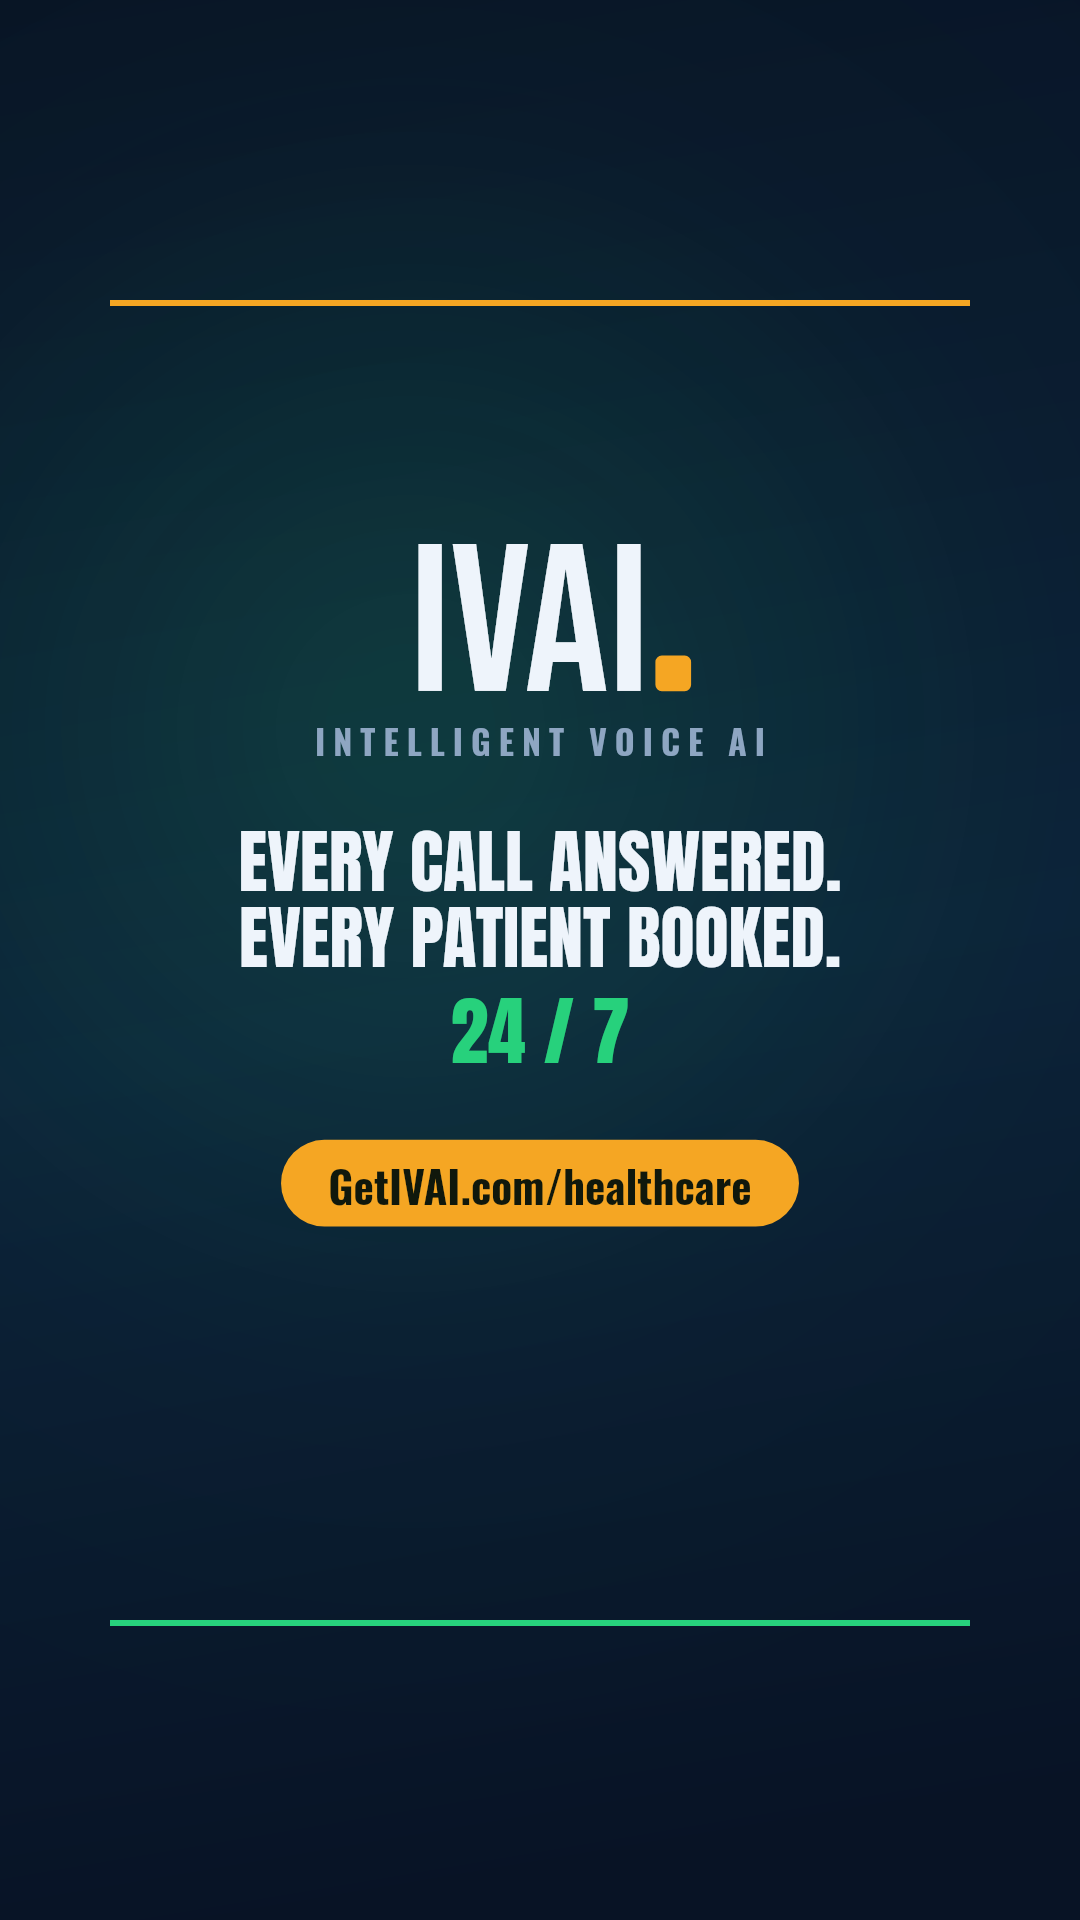
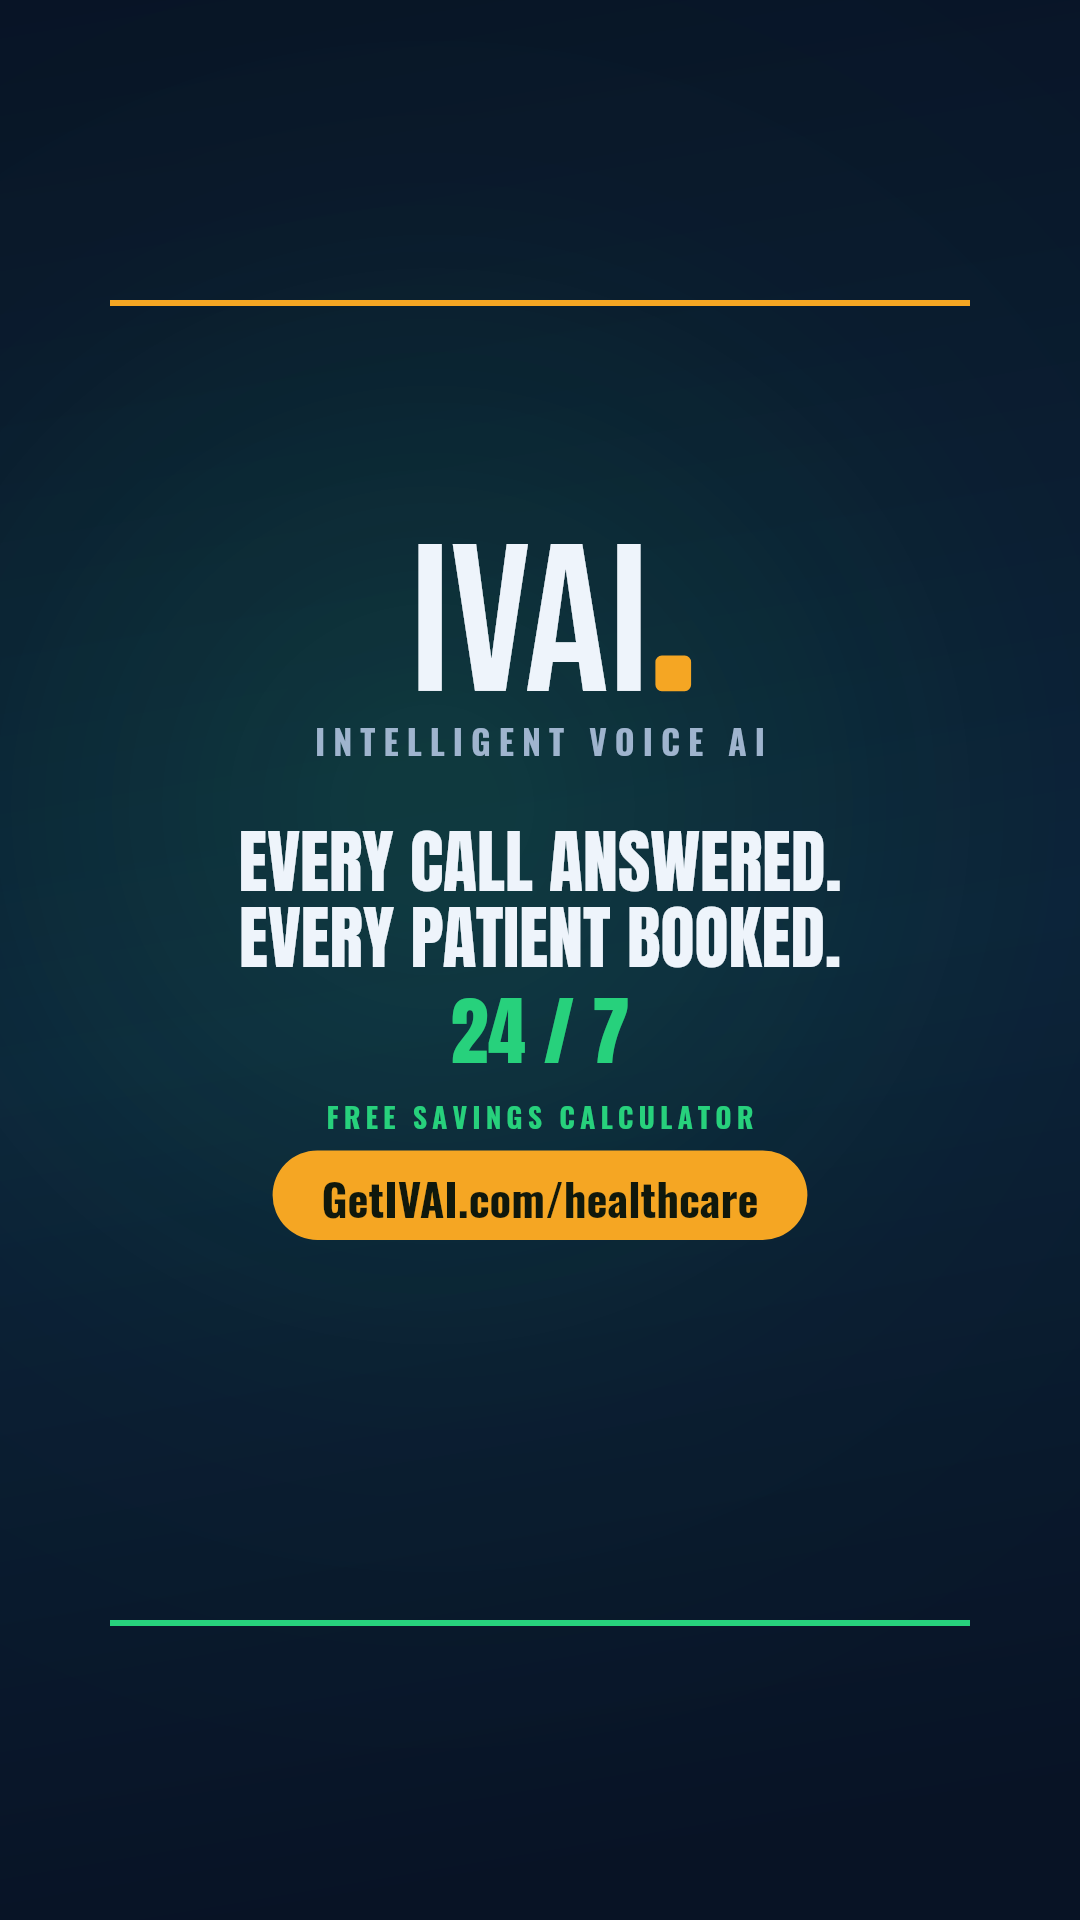
Add high-five close + solution feature list
Insert a celebratory high-five beat over the hallway shot (drawn hands +
impact burst, faces clear) and rework Scene 3 to a feature checklist —
Books into Athena/Kareo, Handles insurance, Routes complex cases — leading to
$41,800 recovered (first month). End-slate gains a Free Savings Calculator line.

https://claude.ai/code/session_01YAkeRZqzQuhdtqTU6LKJGd

Changed region(s): [[0.2444, 0.5625, 0.7639, 0.6562]]

diff --git a/assets/healthcare-45s/src/render.js b/assets/healthcare-45s/src/render.js
@@ -46,8 +46,7 @@ const OVERLAYS = [
   { id: 'lost150',   big: '150,000', label: 'WALK OUT THE DOOR / YEAR',    t0: 11.2, t1: 16.05, tone: 'bad',  count: 150000, pre: '$', post: '' },
   { id: 'unans',     big: '35',      label: 'OF PATIENT CALLS UNANSWERED', t0: 17.6, t1: 23.8,  tone: 'bad',  count: 35,     pre: '',  post: '%' },
   { id: 'lost135',   big: '135,000', label: 'IN LOST REVENUE / YEAR',      t0: 24.2, t1: 31.5,  tone: 'bad',  count: 135000, pre: '$', post: '' },
-  { id: 'books',     big: '',        label: 'BOOKS INTO ATHENA / KAREO',   t0: 33.2, t1: 37.0,  tone: 'good', count: 0,      pre: '',  post: '' },
-  { id: 'recovered', big: '41,800',  label: 'RECOVERED REVENUE',           t0: 37.2, t1: 39.9,  tone: 'good', count: 41800,  pre: '$', post: '' },
+  { id: 'recovered', big: '41,800',  label: 'RECOVERED · FIRST MONTH',     t0: 37.7, t1: 39.9,  tone: 'good', count: 41800,  pre: '$', post: '' },
 ];
 
 const clamp = (x, a = 0, b = 1) => Math.max(a, Math.min(b, x));
@@ -143,19 +142,41 @@ function leakGraph(ctx, t, t0, alpha) {
   if (prog > 0.02) { ctx.fillStyle = C.red; ctx.beginPath(); ctx.arc(gx + gw * prog, gy + gh * prog, 9, 0, 7); ctx.fill(); }
   ctx.restore();
 }
-function bookedToast(ctx, t) {
-  const items = [['9:00 AM', 'New patient'], ['10:30 AM', 'Follow-up'], ['1:15 PM', 'New patient']];
-  for (let i = 0; i < items.length; i++) {
-    const st = 33.3 + i * 0.5, a = lifecycle(t, st, 39.8, 0.4, 0.5); if (a <= 0) continue;
-    const wd = 540, x = W / 2 - wd / 2, y = 770 + i * 96;
+function featureList(ctx, t) {
+  const feats = ['Books into Athena · Kareo', 'Handles insurance', 'Routes complex cases'];
+  for (let i = 0; i < feats.length; i++) {
+    const st = 33.4 + i * 0.55, a = lifecycle(t, st, 37.7, 0.4, 0.45); if (a <= 0) continue;
+    const wd = 610, x = W / 2 - wd / 2, y = 556 + i * 92;
     ctx.save(); ctx.globalAlpha = a;
-    ctx.fillStyle = hexA('#0c2742', 0.92); ctx.strokeStyle = hexA(C.green, 0.7); ctx.lineWidth = 2; rr(ctx, x, y, wd, 80, 16); ctx.fill(); ctx.stroke();
-    ctx.fillStyle = hexA(C.green, 0.16); ctx.beginPath(); ctx.arc(x + 46, y + 40, 24, 0, 7); ctx.fill();
-    ctx.strokeStyle = C.green; ctx.lineWidth = 5; ctx.lineCap = 'round'; ctx.beginPath(); ctx.moveTo(x + 35, y + 40); ctx.lineTo(x + 43, y + 50); ctx.lineTo(x + 58, y + 30); ctx.stroke();
-    ctx.textAlign = 'left'; ctx.fillStyle = C.white; ctx.font = `30px ${F.oswald}`; ctx.fillText(items[i][0] + '  ·  ' + items[i][1], x + 86, y + 50);
-    ctx.fillStyle = C.green; ctx.font = `22px ${F.inter}`; ctx.textAlign = 'right'; ctx.fillText('BOOKED', x + wd - 26, y + 49);
+    ctx.fillStyle = hexA('#0c2742', 0.9); ctx.strokeStyle = hexA(C.green, 0.65); ctx.lineWidth = 2; rr(ctx, x, y, wd, 76, 16); ctx.fill(); ctx.stroke();
+    ctx.fillStyle = hexA(C.green, 0.16); ctx.beginPath(); ctx.arc(x + 44, y + 38, 23, 0, 7); ctx.fill();
+    ctx.strokeStyle = C.green; ctx.lineWidth = 6; ctx.lineCap = 'round'; ctx.beginPath(); ctx.moveTo(x + 33, y + 38); ctx.lineTo(x + 41, y + 48); ctx.lineTo(x + 56, y + 28); ctx.stroke();
+    ctx.textAlign = 'left'; ctx.fillStyle = C.white; ctx.font = `34px ${F.oswald}`; ctx.fillText(feats[i], x + 84, y + 48);
     ctx.restore();
   }
+}
+function drawPalm(ctx, x, y, dir, s) {
+  ctx.save(); ctx.translate(x, y); ctx.scale(dir * s, s);
+  rr(ctx, -28, -36, 50, 74, 15); ctx.fill();
+  for (let i = 0; i < 4; i++) { rr(ctx, -26 + i * 13, -58, 10, 28, 5); ctx.fill(); }
+  rr(ctx, -42, -8, 20, 26, 10); ctx.fill();
+  ctx.restore();
+}
+function highFive(ctx, t) {
+  const a = lifecycle(t, 40.2, 42.6, 0.4, 0.3); if (a <= 0) return;
+  const cx = W / 2, cy = H * 0.525, hit = easeOut(clamp((t - 40.7) / 0.5));
+  ctx.save(); ctx.globalAlpha = a;
+  ctx.strokeStyle = hexA(C.green, 0.85); ctx.lineWidth = 5; ctx.lineCap = 'round';
+  const rays = 12, R0 = 56 * hit, R1 = 118 + 70 * hit;
+  for (let i = 0; i < rays; i++) { const ang = (i / rays) * Math.PI * 2 + 0.26; ctx.beginPath(); ctx.moveTo(cx + Math.cos(ang) * R0, cy + Math.sin(ang) * R0); ctx.lineTo(cx + Math.cos(ang) * R1, cy + Math.sin(ang) * R1); ctx.stroke(); }
+  if (hit > 0 && hit < 1) { ctx.fillStyle = hexA('#ffffff', (1 - hit) * 0.5); ctx.beginPath(); ctx.arc(cx, cy, 104 * hit, 0, 7); ctx.fill(); }
+  ctx.shadowColor = hexA(C.green, 0.6); ctx.shadowBlur = 18; ctx.fillStyle = '#ffffff';
+  drawPalm(ctx, cx - 22 - (1 - hit) * 80, cy, 1, 0.82);
+  drawPalm(ctx, cx + 22 + (1 - hit) * 80, cy, -1, 0.82);
+  ctx.shadowBlur = 0;
+  ctx.textAlign = 'center'; ctx.fillStyle = C.white; ctx.font = `76px ${F.anton}`; ctx.fillText('HIGH FIVE.', cx, H * 0.73);
+  ctx.fillStyle = C.green; ctx.font = `34px ${F.oswald}`; const s = 'EVERY CALL ANSWERED', lw = trackWidth(ctx, s, 4); track(ctx, s, cx - lw / 2, H * 0.73 + 52, 4);
+  ctx.restore();
 }
 
 // ---- end slate ----
@@ -176,18 +197,17 @@ function endSlate(ctx, t, sT) {
   ctx.font = `70px ${F.anton}`; ctx.fillStyle = C.white; ctx.fillText('EVERY CALL ANSWERED.', W / 2, wy + 200); ctx.fillText('EVERY PATIENT BOOKED.', W / 2, wy + 276);
   ctx.fillStyle = C.green; ctx.font = `76px ${F.anton}`; ctx.fillText('24 / 7', W / 2, wy + 372);
   const pa = easeOut(clamp((t - sT - 0.7) / 0.6)); ctx.globalAlpha = pa;
+  ctx.fillStyle = C.green; ctx.font = `28px ${F.oswald}`; { const fc = 'FREE SAVINGS CALCULATOR', fw = trackWidth(ctx, fc, 5); track(ctx, fc, W / 2 - fw / 2, wy + 438, 5); }
   ctx.font = `44px ${F.oswald}`; const cta = 'GetIVAI.com/healthcare', cw = ctx.measureText(cta).width + 96, pulse = 1 + 0.02 * Math.sin((t - sT) * 6);
-  ctx.translate(W / 2, wy + 492); ctx.scale(pulse, pulse); ctx.fillStyle = C.amber; rr(ctx, -cw / 2, -44, cw, 88, 44); ctx.fill();
-  ctx.fillStyle = '#10180c'; ctx.textBaseline = 'middle'; ctx.fillText(cta, 0, 3);
+  ctx.translate(W / 2, wy + 504); ctx.scale(pulse, pulse); ctx.fillStyle = C.amber; rr(ctx, -cw / 2, -44, cw, 88, 44); ctx.fill();
+  ctx.fillStyle = '#10180c'; ctx.textBaseline = 'middle'; ctx.textAlign = 'center'; ctx.fillText(cta, 0, 3);
   ctx.restore();
 }
 function drawCTA(ctx, t) {
-  const sT = 41.3, eIn = easeOut(clamp((t - sT) / 0.8));
+  const sT = 42.6, eIn = easeOut(clamp((t - sT) / 0.7));
   if (eIn < 1) {
     photoLayer(ctx, P.walk, t, 40.0, 45.5, 'right', null); scrims(ctx);
-    const ca = easeOut(clamp((t - 40.2) / 0.8)); ctx.save(); ctx.globalAlpha = ca * (1 - eIn); ctx.textAlign = 'center';
-    ctx.font = `60px ${F.anton}`; ctx.fillStyle = C.white; ctx.fillText('THE TEAM THAT', W / 2, H * 0.60);
-    ctx.fillStyle = C.green; ctx.fillText('NEVER MISSES A CALL.', W / 2, H * 0.60 + 68); ctx.restore();
+    highFive(ctx, t);
   }
   if (eIn > 0) { ctx.save(); ctx.globalAlpha = eIn; endSlate(ctx, t, sT); ctx.restore(); }
 }
@@ -210,8 +230,8 @@ function drawFrame(ctx, t) {
     topHeadline(ctx, ['THE REVENUE', 'LEAK.'], C.red, t, 16.5);
   } else if (s.key === 'solve') {
     photoLayer(ctx, P.dash, t, s.t0, s.t1, 'in', 'green'); scrims(ctx);
-    topHeadline(ctx, ['IVAI ANSWERS 24/7.'], C.green, t, 33.0, 70);
-    bookedToast(ctx, t);
+    topHeadline(ctx, ['IVAI ANSWERS', 'EVERY CALL.'], C.green, t, 33.0, 60);
+    featureList(ctx, t);
   }
   for (const ov of OVERLAYS) statOverlay(ctx, ov, t, STAT_YC);
   vignette(ctx); chrome(ctx, t, s); grain(ctx, t); cutFlash(ctx, t);